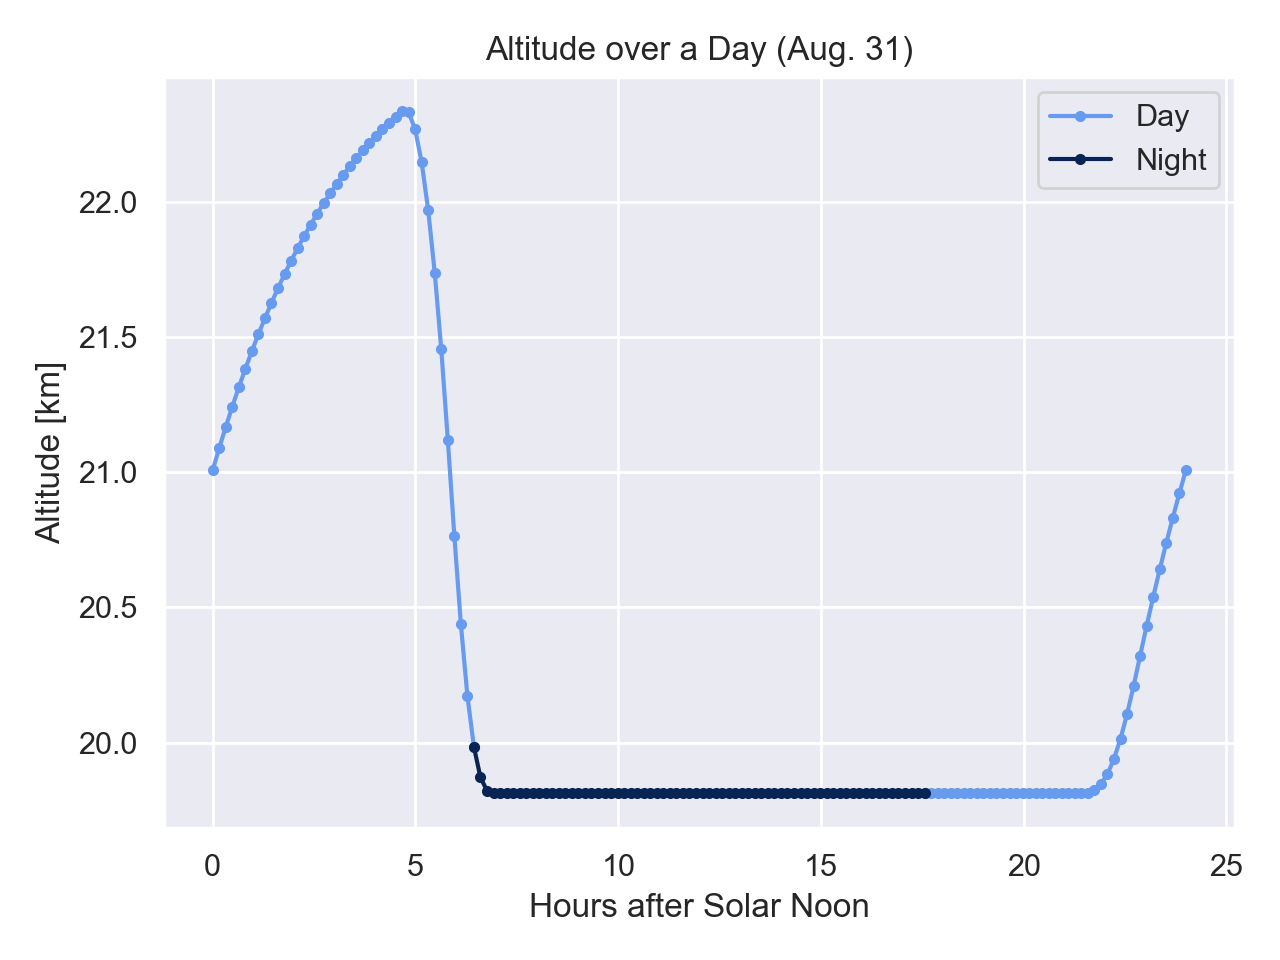
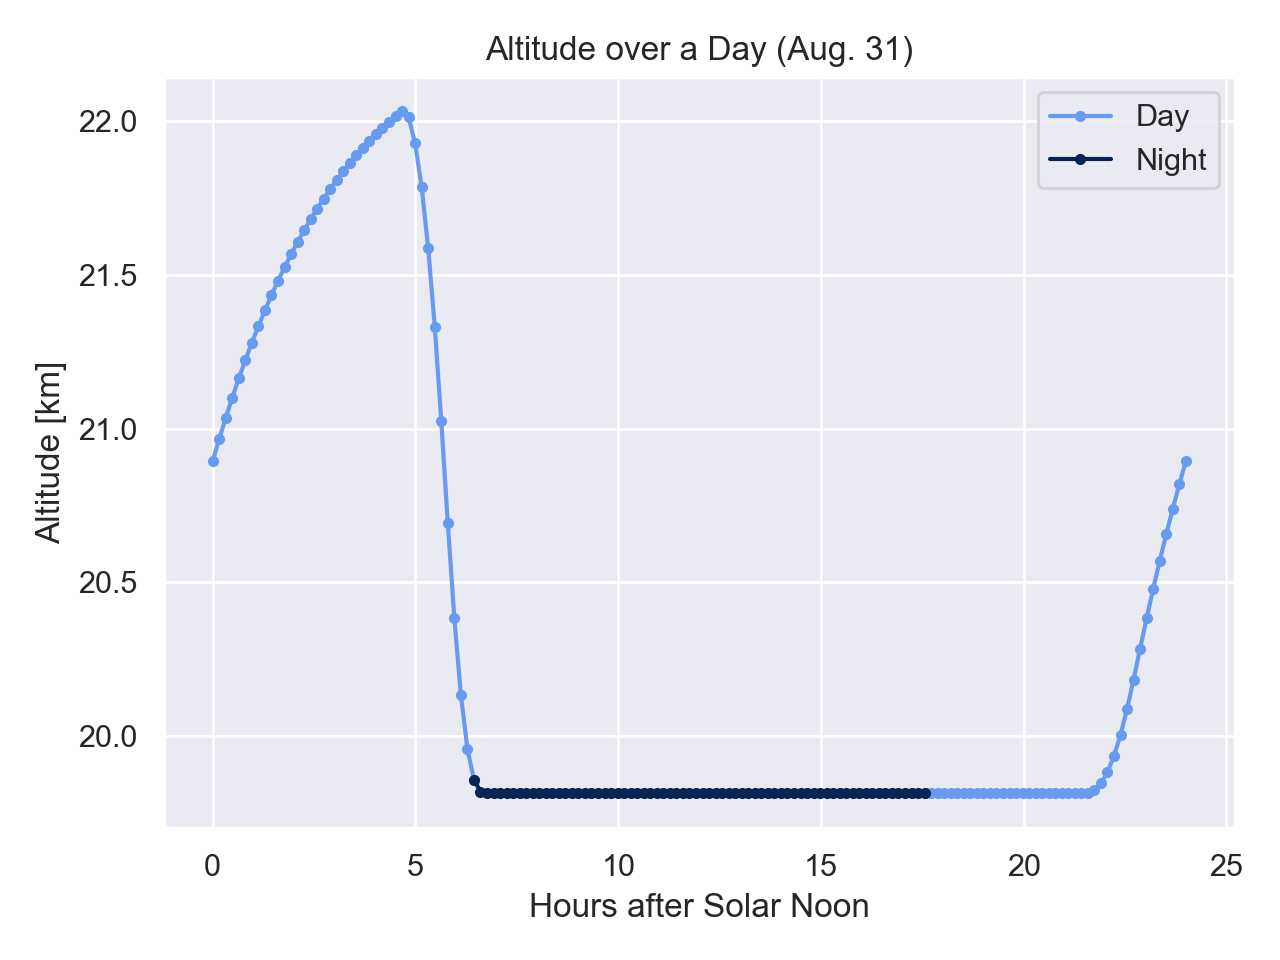
lower structural mass margin, higher battery eff., higher motor eff.

diff --git a/design_opt.py b/design_opt.py
@@ -92,7 +92,7 @@ opti.set_value(battery_specific_energy_Wh_kg, 450)
 
 ##### Margins
 structural_mass_margin_multiplier = opti.parameter()
-opti.set_value(structural_mass_margin_multiplier, 1.5)
+opti.set_value(structural_mass_margin_multiplier, 1.25)
 energy_generation_margin = opti.parameter()
 opti.set_value(energy_generation_margin, 1.15)
 allowable_battery_depth_of_discharge = 0.85  # How much of the battery can you actually use?
@@ -616,7 +616,8 @@ propeller_rpm = propeller_rads_per_sec * 30 / cas.pi
 
 area_propulsive = cas.pi / 4 * propeller_diameter ** 2 * n_propellers
 propeller_coefficient_of_performance = 0.90  # a total WAG
-motor_efficiency = 0.856 / (0.856 + 0.026 + 0.018 + 0.004)  # back-calculated from Odysseus data (94.7%)
+motor_efficiency = 0.955 # Taken from ThinGap estimates
+# 0.856 / (0.856 + 0.026 + 0.018 + 0.004)  # back-calculated from Odysseus data (94.7%)
 
 power_out_propulsion_shaft = lib_prop_prop.propeller_shaft_power_from_thrust(
     thrust_force=thrust_force,
@@ -760,8 +761,8 @@ battery_pack_cell_percentage = 0.70  # What percent of the battery pack consists
 # Accounts for module HW, BMS, pack installation, etc.
 # Ed Lovelace (in his presentation) gives 70% as a state-of-the-art fraction.
 
-battery_charge_efficiency = 0.94
-battery_discharge_efficiency = 0.94
+battery_charge_efficiency = 0.985
+battery_discharge_efficiency = 0.985
 # Taken from Bjarni, 4/17/20 in #powermanagment Slack
 
 mass_battery_pack = lib_prop_elec.mass_battery_pack(
